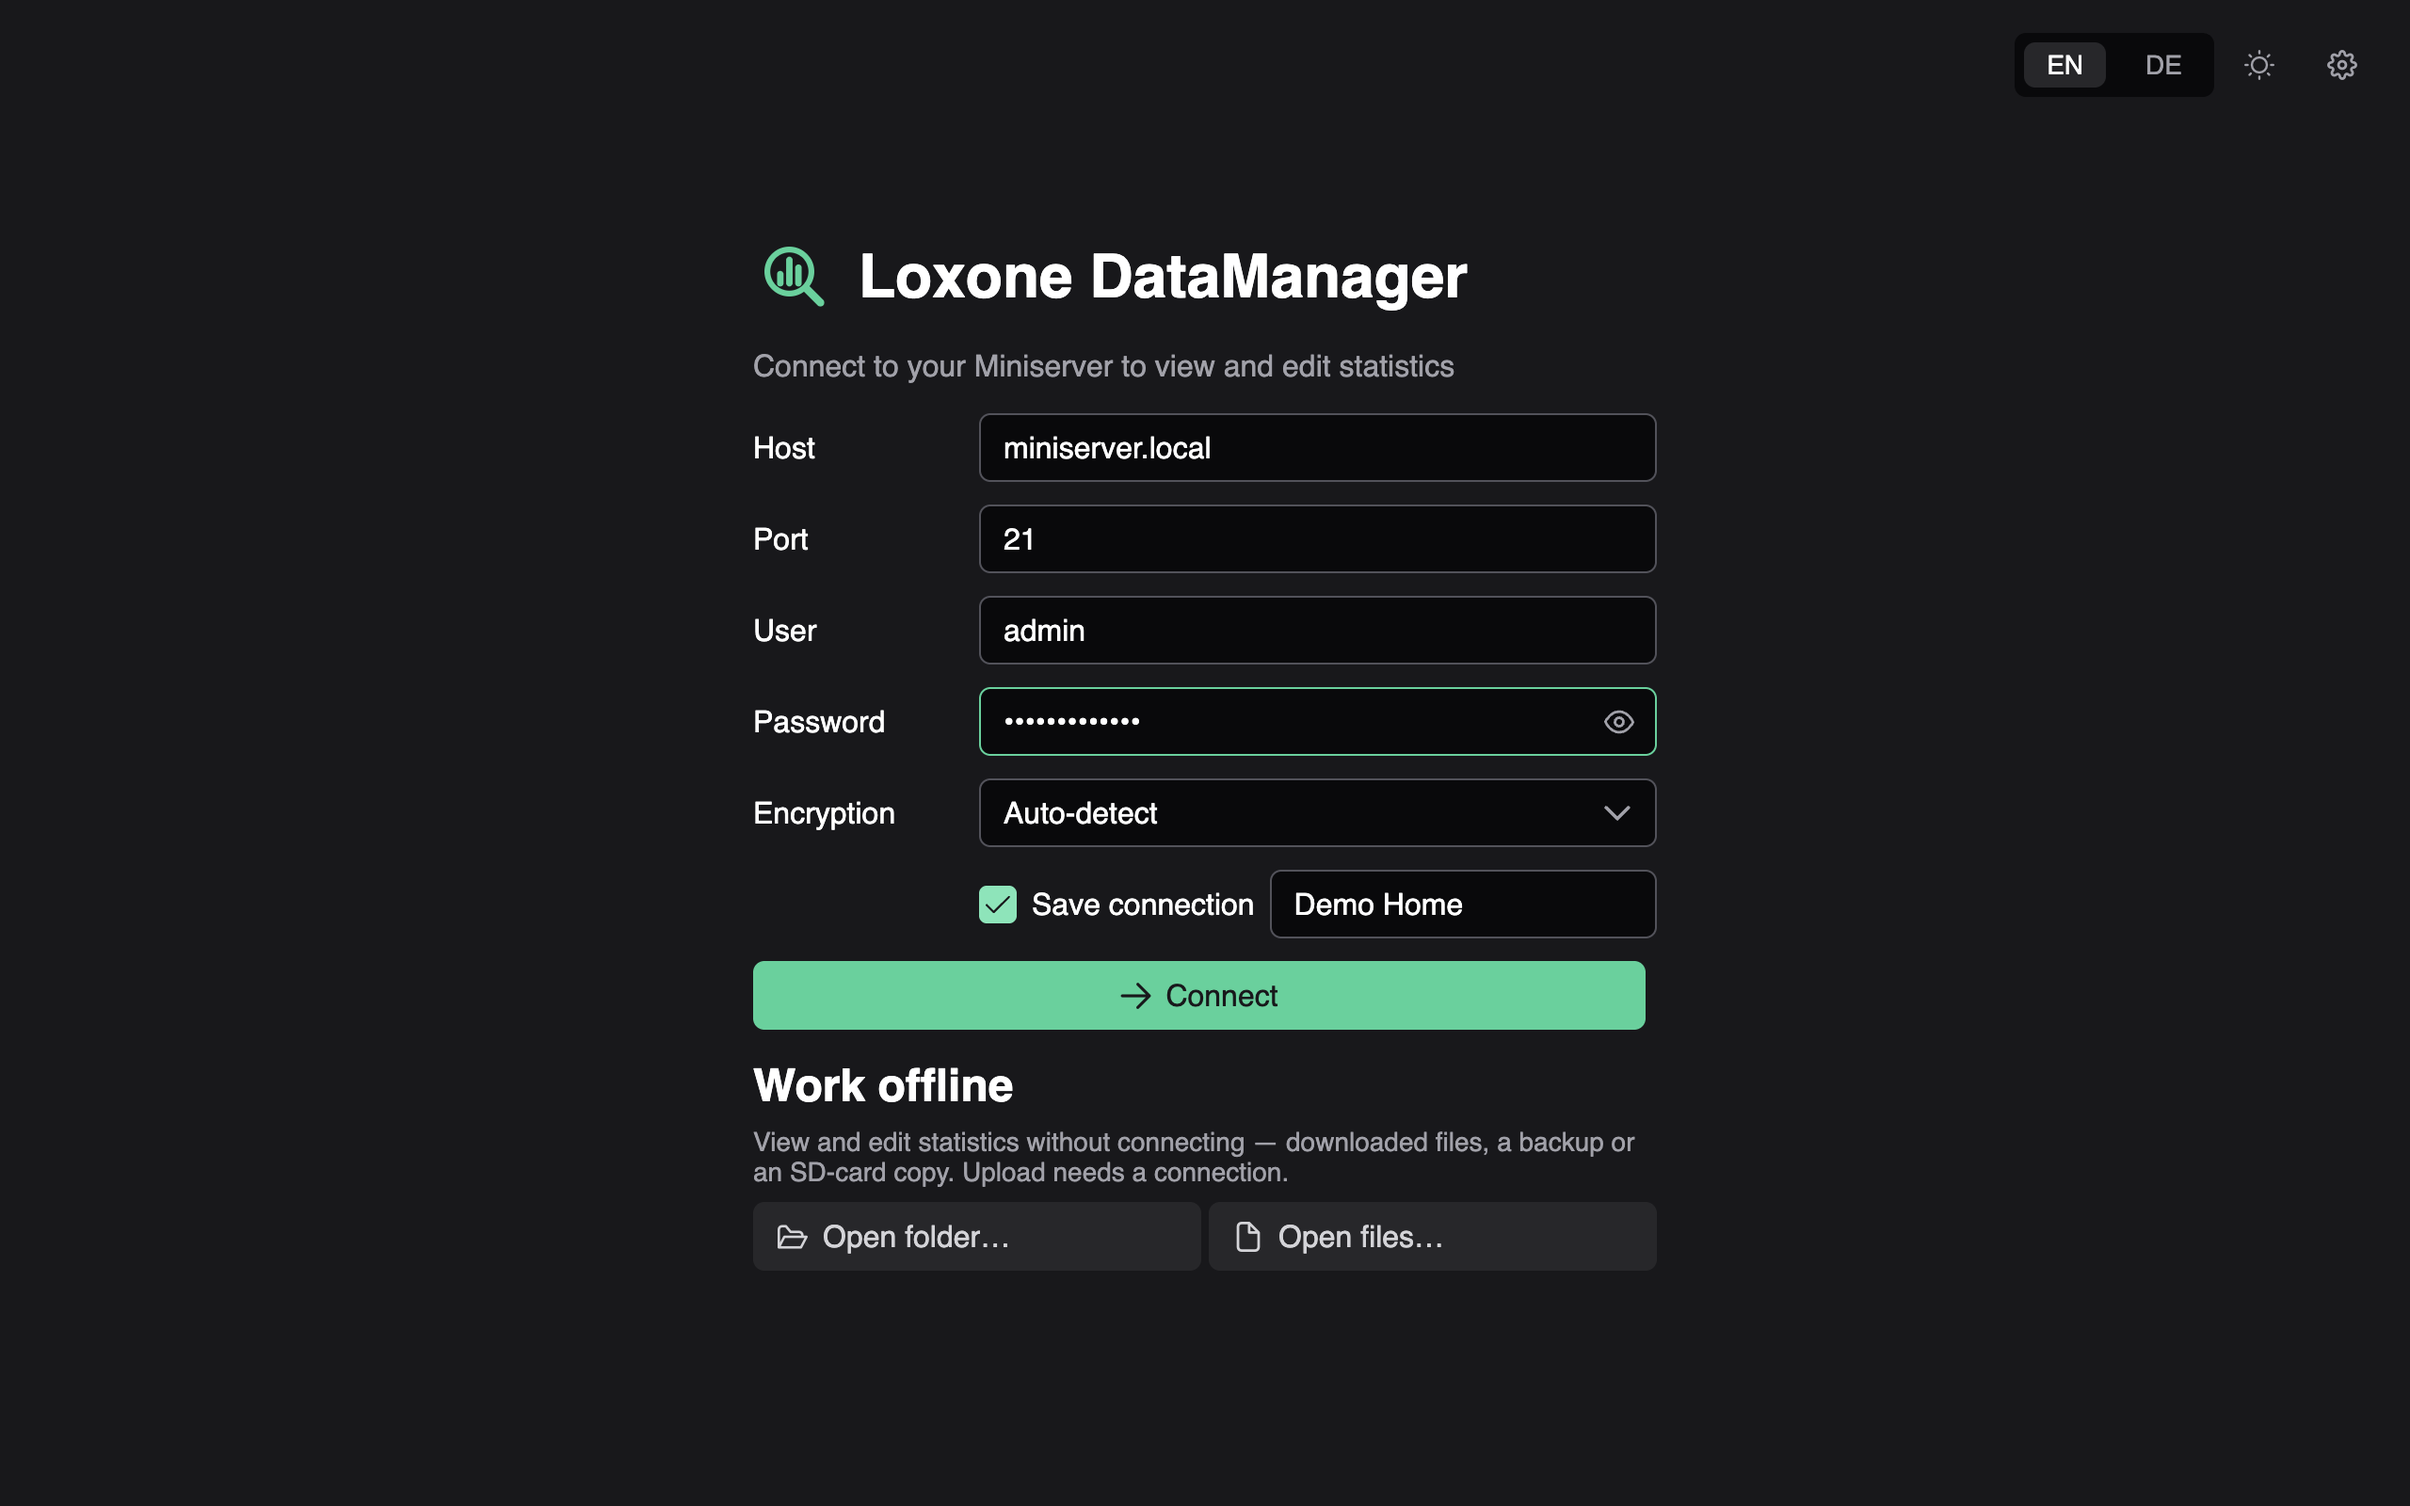
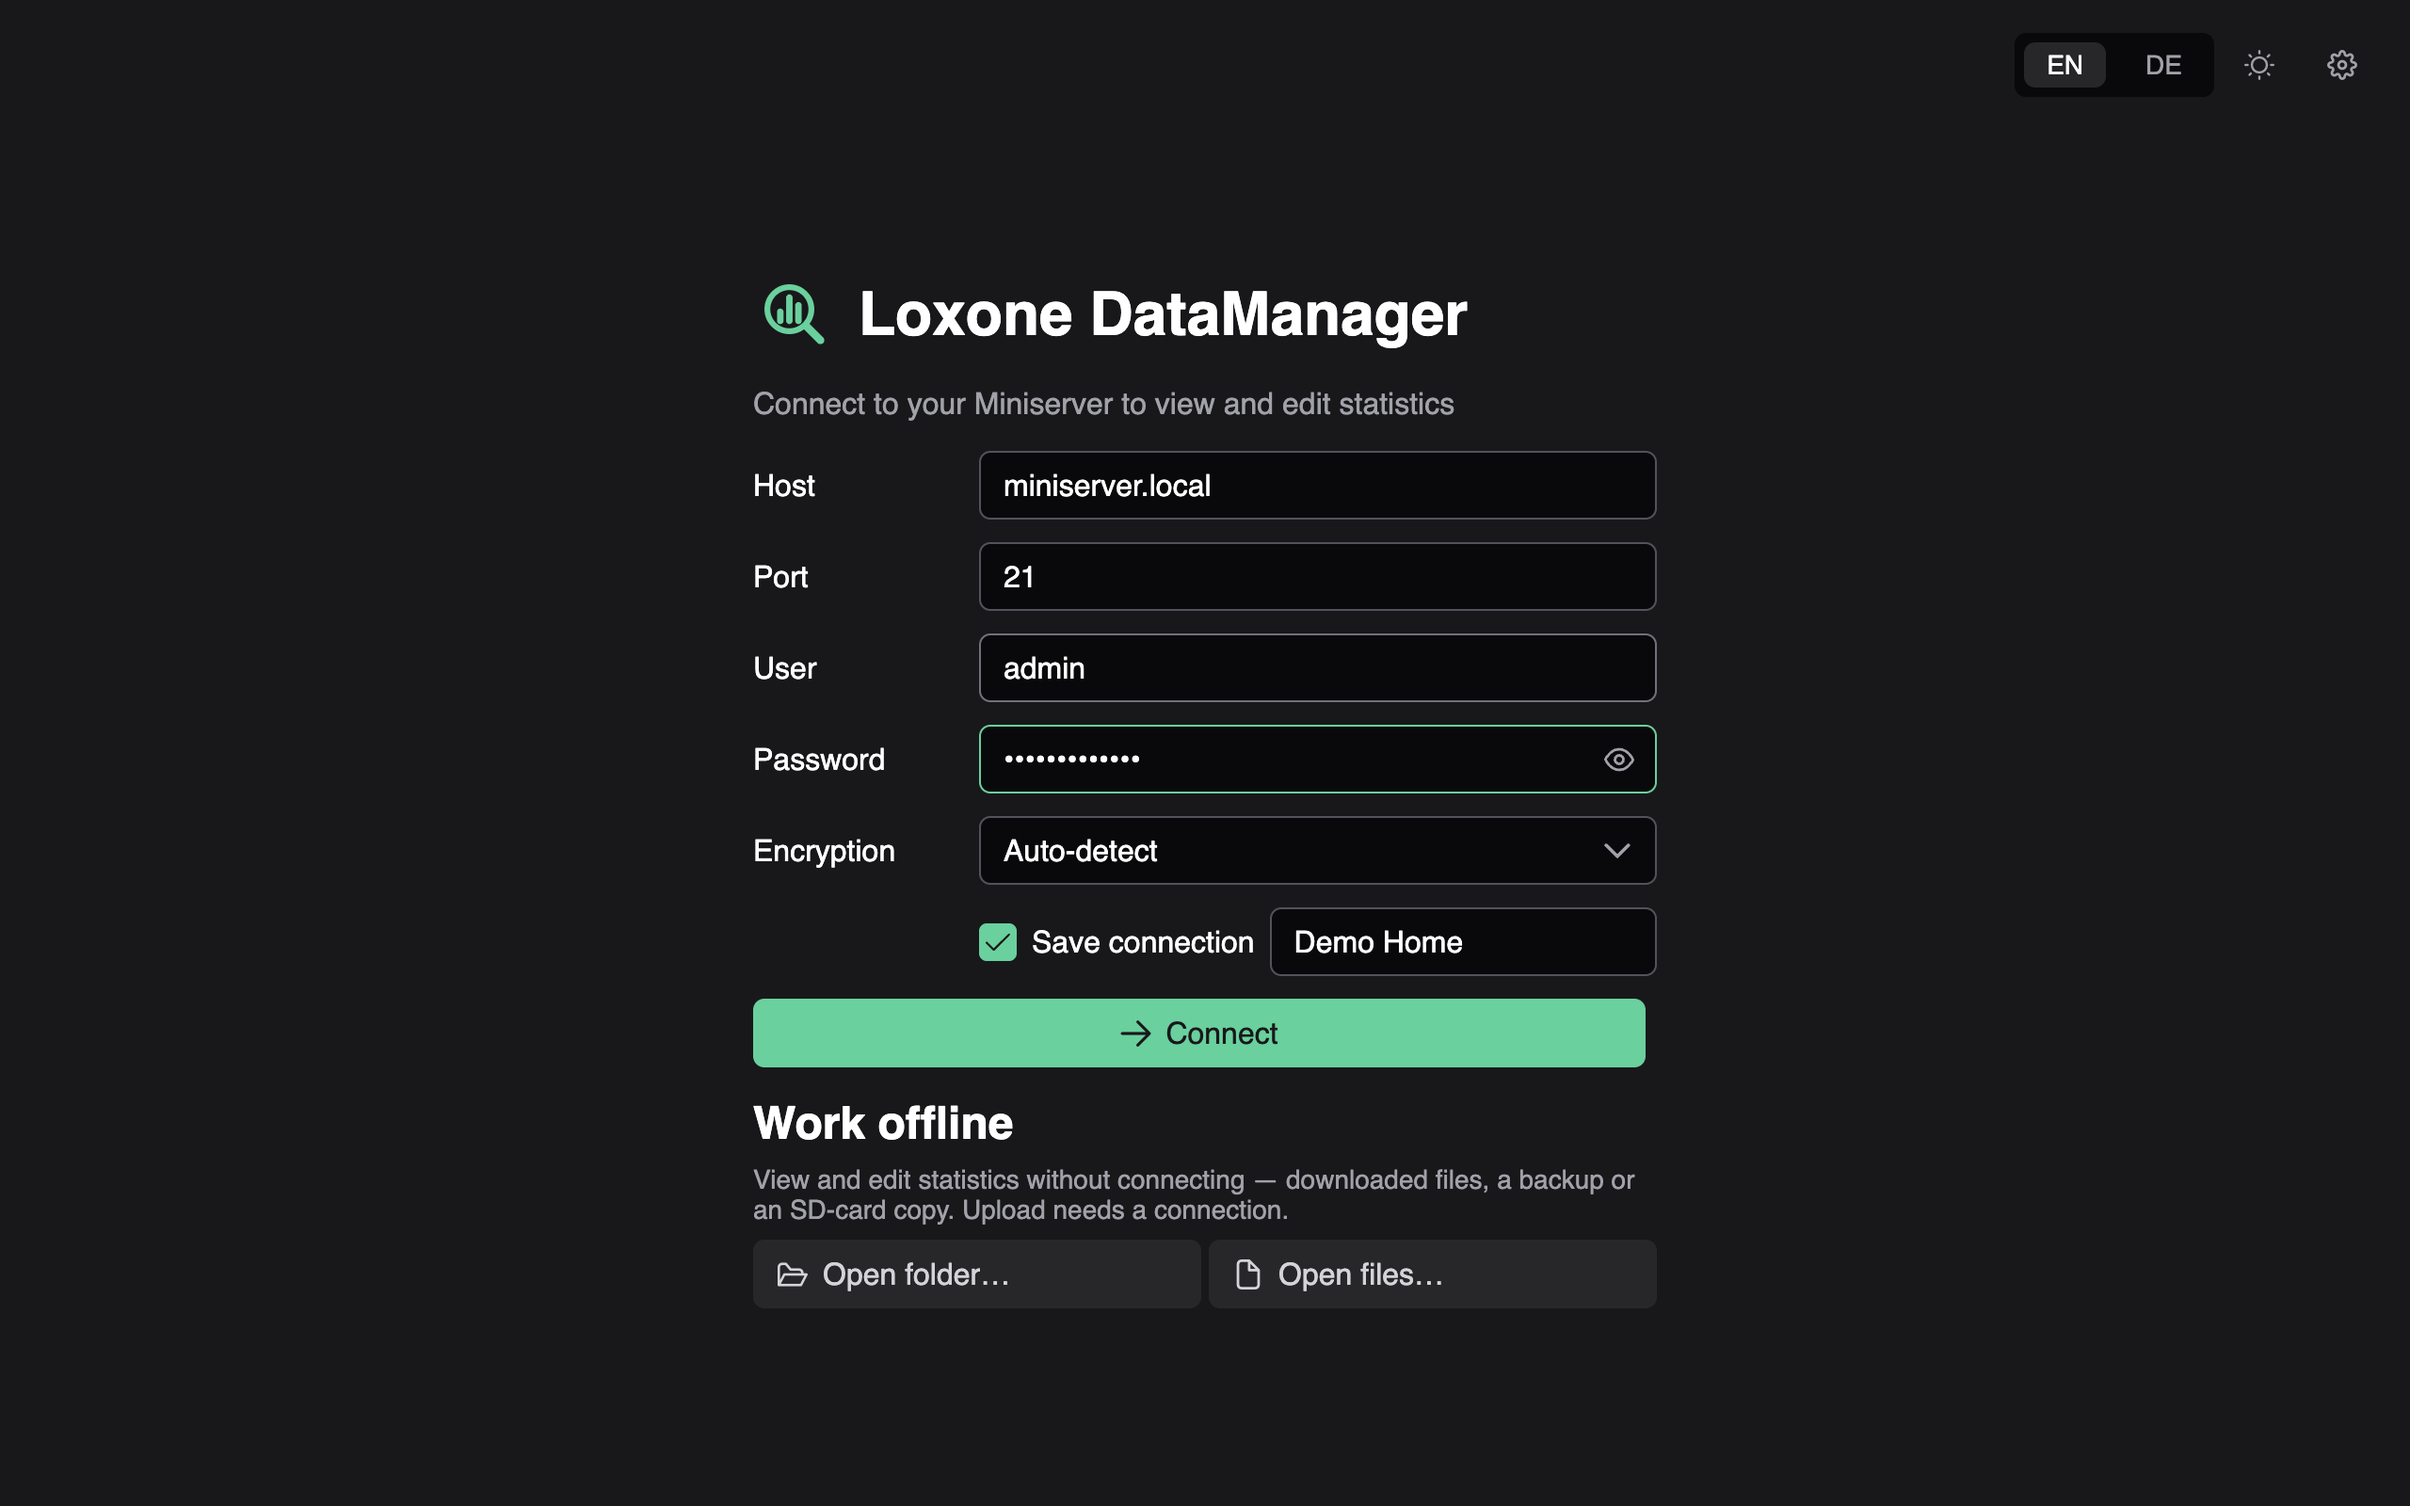
Responsive layout: tested 800x600 to 1920x1080
- window minimum 800x600
- browser toolbar wraps, row actions pinned to the right edge
- connect screen scrolls instead of cutting off its top on short windows
- chart height follows the window height (160-320px) so the grid stays usable
- narrower problems panel below 1000px
- README screenshots regenerated

Changed region(s): [[0.3125, 0.1562, 0.6875, 0.875], [0.6562, 0.3125, 0.6875, 0.3438]]

diff --git a/src/renderer/src/components/StatChart.vue b/src/renderer/src/components/StatChart.vue
@@ -86,6 +86,9 @@ function autoAxisSize(
   return Math.ceil(Math.max(size, 40))
 }
 
+/** 320px on normal windows, shrinks on short ones so the entry grid stays usable */
+const chartHeight = (): number => Math.round(Math.min(320, Math.max(160, innerHeight * 0.32)))
+
 function makePlot(): void {
   if (!wrap.value) return
   plot?.destroy()
@@ -93,7 +96,7 @@ function makePlot(): void {
   const gridColor = cssVar('--p-content-border-color', '#8883')
   const opts: uPlot.Options = {
     width: wrap.value.clientWidth,
-    height: 320,
+    height: chartHeight(),
     tzDate: (ts) => uPlot.tzDate(new Date(ts * 1000), 'Etc/UTC'),
     series: [
       {},
@@ -135,12 +138,13 @@ function makePlot(): void {
 }
 
 const resizeObserver = new ResizeObserver(() => {
-  if (plot && wrap.value) plot.setSize({ width: wrap.value.clientWidth, height: 320 })
+  if (plot && wrap.value) plot.setSize({ width: wrap.value.clientWidth, height: chartHeight() })
 })
 
 onMounted(() => {
   makePlot()
   if (wrap.value) resizeObserver.observe(wrap.value)
+  resizeObserver.observe(document.documentElement) // window height changes too
 })
 onBeforeUnmount(() => {
   resizeObserver.disconnect()

diff --git a/src/renderer/src/views/ConnectionView.vue b/src/renderer/src/views/ConnectionView.vue
@@ -269,8 +269,10 @@ onMounted(async () => {
 <style scoped>
 .connect {
   align-items: center;
-  justify-content: center;
   position: relative;
+  overflow-y: auto;
+  /* keep the form clear of the corner controls */
+  padding-top: 4rem;
 }
 .corner {
   position: absolute;
@@ -278,6 +280,8 @@ onMounted(async () => {
   right: 1rem;
 }
 .panel {
+  /* centered while it fits, scrolls from the top when it doesn't */
+  margin: auto 0;
   width: 100%;
   max-width: 30rem;
   display: flex;

diff --git a/src/renderer/src/views/BrowserView.vue b/src/renderer/src/views/BrowserView.vue
@@ -339,7 +339,7 @@ onBeforeUnmount(() => {
           />
         </template>
       </Column>
-      <Column header-style="width: 11rem">
+      <Column header-style="width: 11rem" frozen align-frozen="right">
         <template #body="{ data }">
           <div class="row-actions">
             <Button
@@ -458,6 +458,7 @@ onBeforeUnmount(() => {
 }
 .actions {
   display: flex;
+  flex-wrap: wrap;
   gap: 0.5rem;
 }
 .month-select {

diff --git a/src/main/index.ts b/src/main/index.ts
@@ -21,6 +21,9 @@ function createWindow(): void {
   const mainWindow = new BrowserWindow({
     width: 1280,
     height: 800,
+    // smallest size the views are tested at — below this the tables can't work
+    minWidth: 800,
+    minHeight: 600,
     show: false,
     autoHideMenuBar: true,
     ...(process.platform === 'linux' ? { icon } : {}),

diff --git a/src/renderer/src/views/EditorView.vue b/src/renderer/src/views/EditorView.vue
@@ -428,6 +428,12 @@ watch(
   grid-template-columns: 1fr 18rem;
   gap: 1rem;
 }
+/* narrow windows: give the entry grid room for its value columns */
+@media (max-width: 1000px) {
+  .lower {
+    grid-template-columns: 1fr 12rem;
+  }
+}
 .grid {
   min-height: 0;
 }
